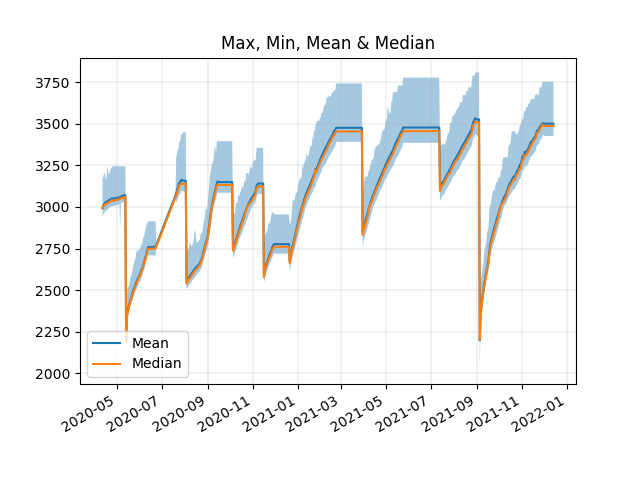
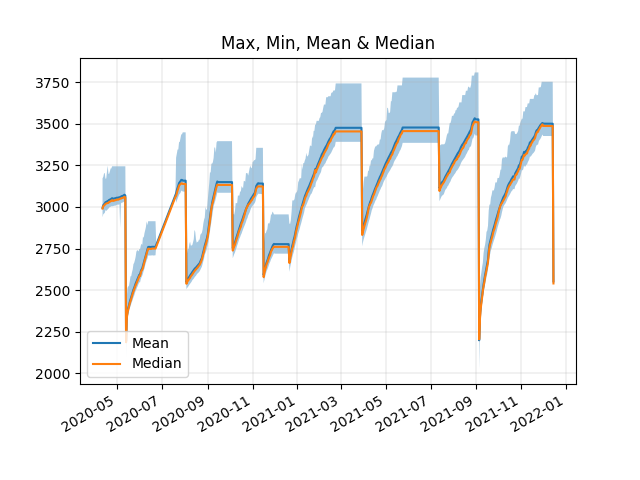
Wed Dec 15 15:30:51 EST 2021

diff --git a/README.md b/README.md
@@ -1,6 +1,6 @@
 # MMR Drift Status
 
-**Last Updated (UTC):** 2021-12-14 22:15:42.500048
+**Last Updated (UTC):** 2021-12-15 20:30:50.645762
 # All Time
 ![Figure 1](/images/all-time_MMMM.png)
 ![Figure 2](/images/all-time_CHANGE.png)
@@ -28,11 +28,15 @@
 # Season 2
 ![Figure 1](/images/season-2_MMMM.png)
 ![Figure 2](/images/season-2_CHANGE.png)
+# Season 10
+![Figure 1](/images/season-10_MMMM.png)
+![Figure 2](/images/season-10_CHANGE.png)
 # Season 1
 ![Figure 1](/images/season-1_MMMM.png)
 ![Figure 2](/images/season-1_CHANGE.png)
 |date| min| max| mean| drift_daily| drift_total| median| stdev|
 |:---|:---|:---|:---|:---|:---|:---|:--- |
+|15-Dec-2021| 2497| 2756| 2552.6| -947.3| -442.0| 2540.0| 46.7|
 |14-Dec-2021| 3426| 3752| 3499.9| 0.0| 505.3| 3486.0| 57.3|
 |13-Dec-2021| 3426| 3752| 3499.9| 0.0| 505.3| 3486.0| 57.3|
 |12-Dec-2021| 3426| 3752| 3499.9| 0.0| 505.3| 3486.0| 57.3|
